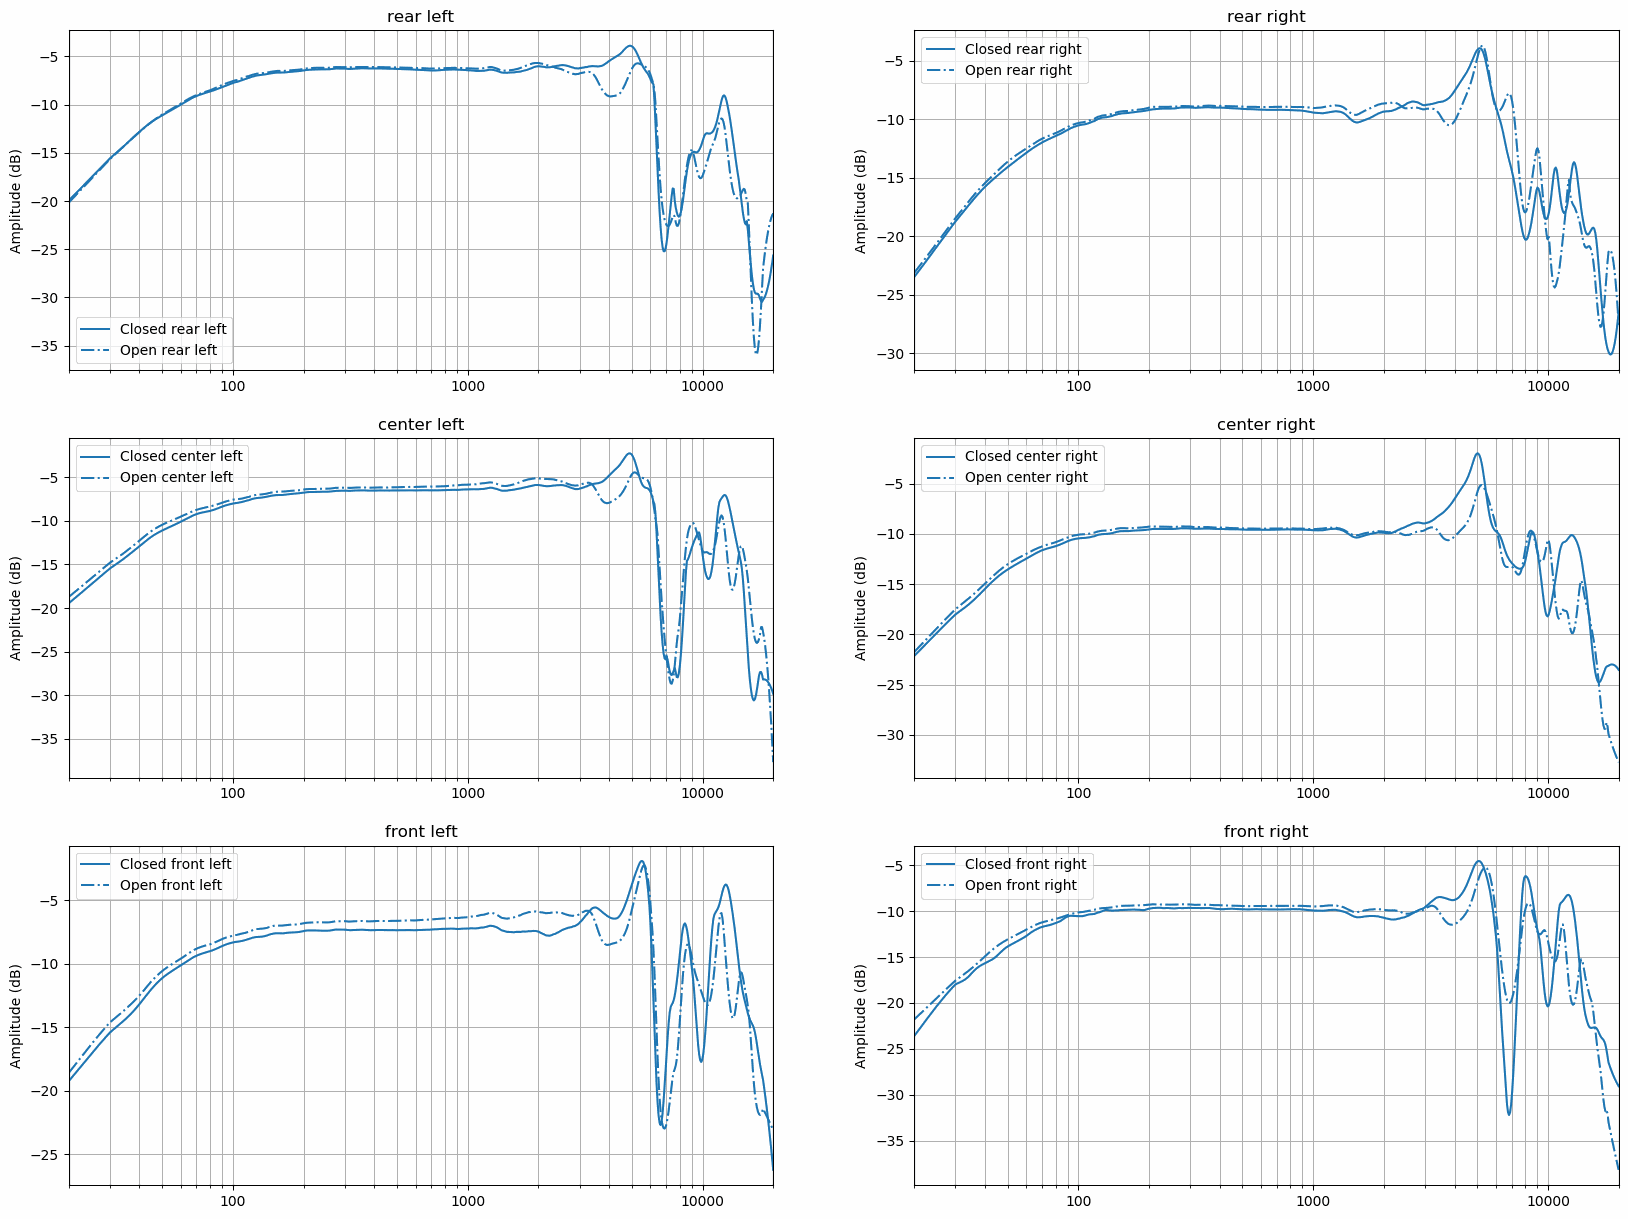
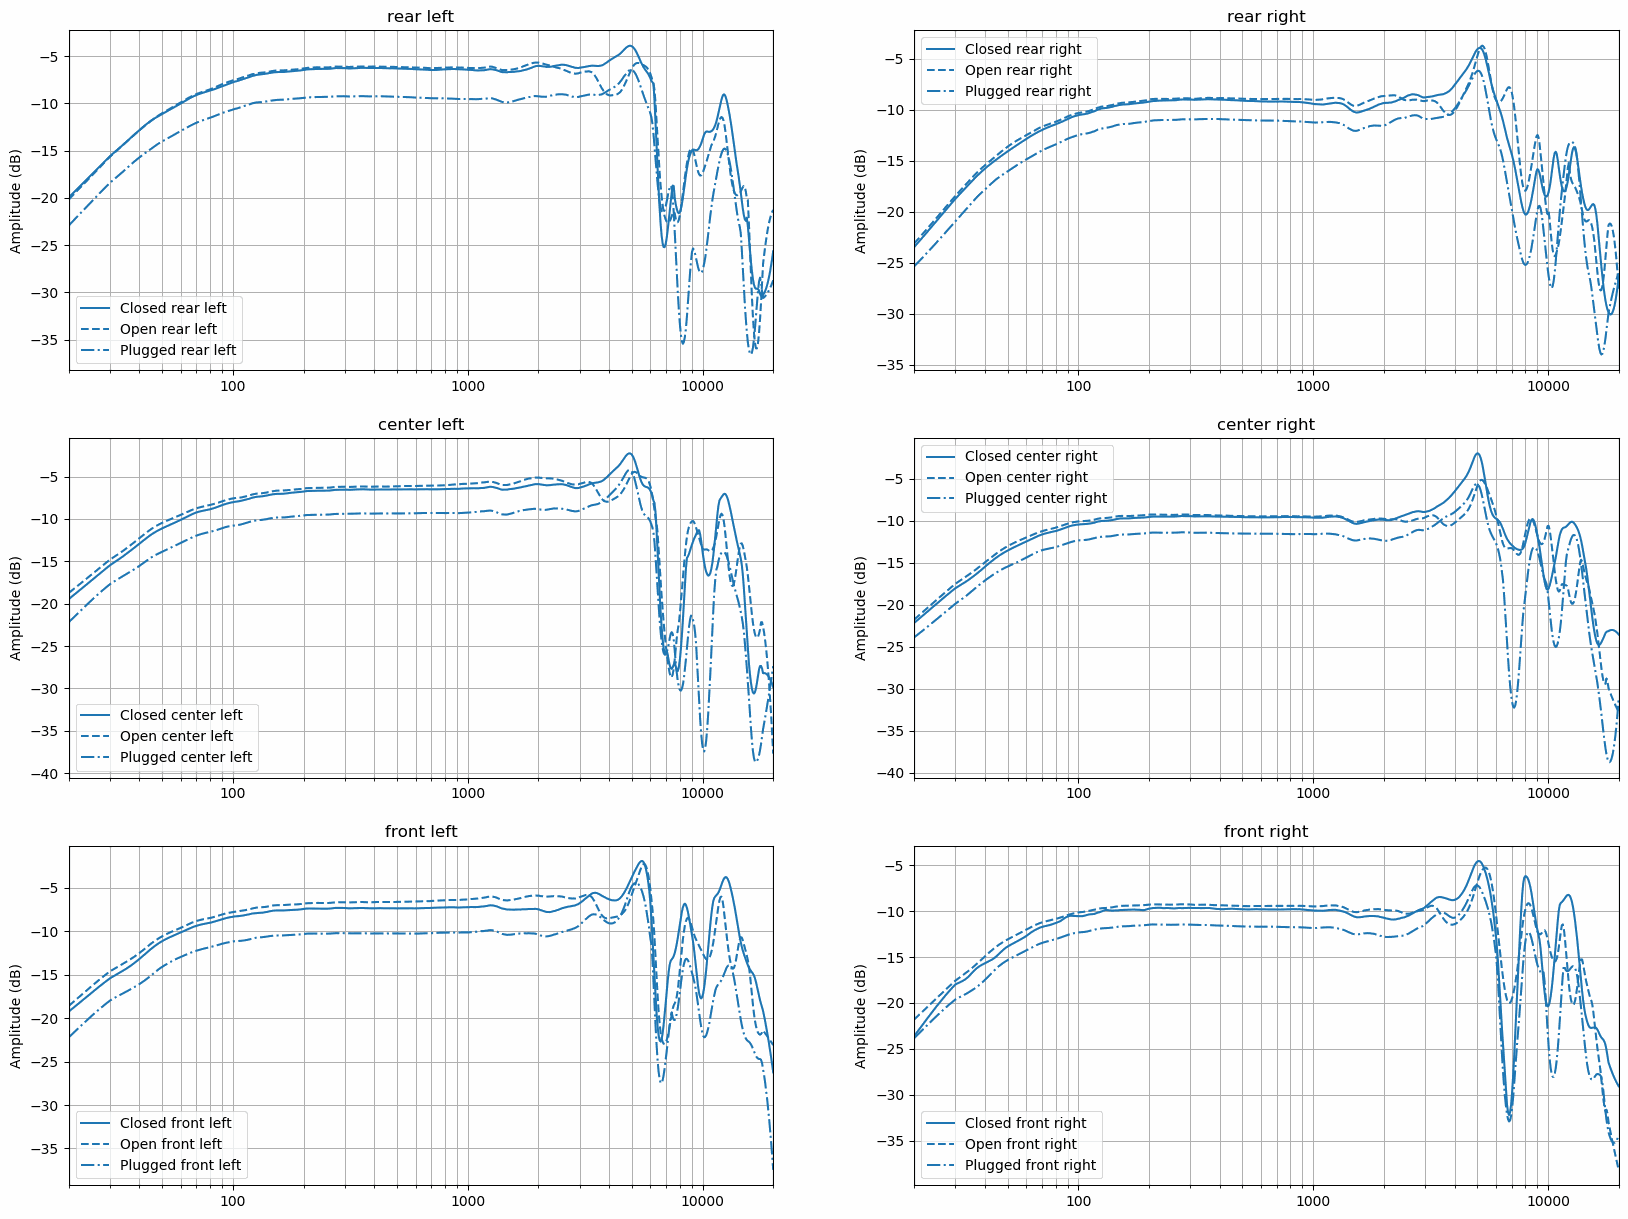
Added measurements with mics attached to ear plugs in open vs closed ear canal experiement.

diff --git a/research/open-vs-closed-ear-canal/open-vs-closed-ear-canal.py b/research/open-vs-closed-ear-canal/open-vs-closed-ear-canal.py
@@ -30,10 +30,12 @@ def main():
     for i, location in enumerate(['rear', 'center', 'front']):
         for j, side in enumerate(['left', 'right']):
             # Frequency responses
-            ccl = responses[f'closed-{location}'][side].frequency_response()
-            ccl.smoothen_fractional_octave(window_size=1 / 3, treble_f_lower=20000, treble_f_upper=23999)
-            ocl = responses[f'open-{location}'][side].frequency_response()
-            ocl.smoothen_fractional_octave(window_size=1 / 3, treble_f_lower=20000, treble_f_upper=23999)
+            cl = responses[f'closed-{location}'][side].frequency_response()
+            cl.smoothen_fractional_octave(window_size=1 / 3, treble_f_lower=20000, treble_f_upper=23999)
+            op = responses[f'open-{location}'][side].frequency_response()
+            op.smoothen_fractional_octave(window_size=1 / 3, treble_f_lower=20000, treble_f_upper=23999)
+            pl = responses[f'plugged-{location}'][side].frequency_response()
+            pl.smoothen_fractional_octave(window_size=1 / 3, treble_f_lower=20000, treble_f_upper=23999)
 
             # Plot
             ax = axs[i, j]
@@ -46,9 +48,10 @@ def main():
             ax.grid(True, which='minor')
             ax.xaxis.set_major_formatter(ticker.StrMethodFormatter('{x:.0f}'))
 
-            ax.plot(ccl.frequency, ccl.smoothed, color='#1f77b4')
-            ax.plot(ocl.frequency, ocl.smoothed, '-.', color='#1f77b4')
-            ax.legend([f'Closed {location} {side}', f'Open {location} {side}'])
+            ax.plot(cl.frequency, cl.smoothed, color='#1f77b4')
+            ax.plot(op.frequency, op.smoothed, '--', color='#1f77b4')
+            ax.plot(pl.frequency, pl.smoothed, '-.', color='#1f77b4')
+            ax.legend([f'Closed {location} {side}', f'Open {location} {side}', f'Plugged {location} {side}'])
 
     file_path = os.path.join(DIR_PATH, 'Results.png')
     fig.savefig(file_path, bbox_inches='tight')

diff --git a/research/open-vs-closed-ear-canal/README.md b/research/open-vs-closed-ear-canal/README.md
@@ -2,13 +2,13 @@
 Several headphone compensation measurements are inspected for the effects of closed vs open ear canal to the measured
 frequency response. Measurements were done with headphones in three different locations: center, pushed towards the
 front of the head and pushed towards back of the head. All measurments were repeated with ear canal open, ear canal
-blocked with foam ear plugs and microphone capsules attached to the ear plugs.
+blocked with foam ear plugs and microphone capsules attached to the ear plugs (plugged).
 
 Headphones used were Sennheiser HD 800 and microphones were The Sound Professionals SP-TFB-2. These microphones have a
 silicone hook for keeping the capsule in place during recording and normally keep the ear canal open.
 
 Results show a small dip at 4 kHz when the ear canal is open but not when it's closed. In some cases closed ear canal
 measurements better capture the 5-6 kHz peak of Sennheiser HD 800. However it's unclear how much of these are caused by
-the ear canal openess and how much is due to the mic placement. Mics were placed carefully at the same location at the
+the ear canal openness and how much is due to the mic placement. Mics were placed carefully at the same location at the
 ear canal opening but still small differences in placement can have significant variation in the measured frequency
 response.
